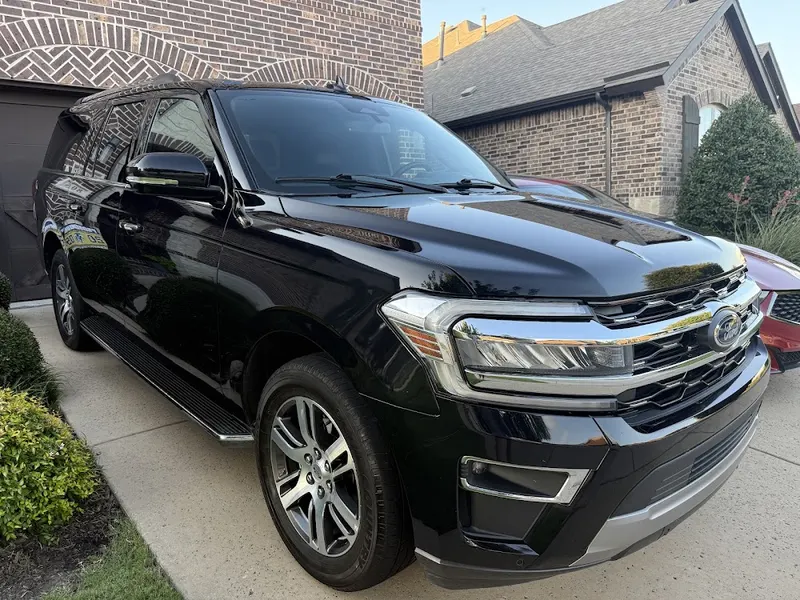
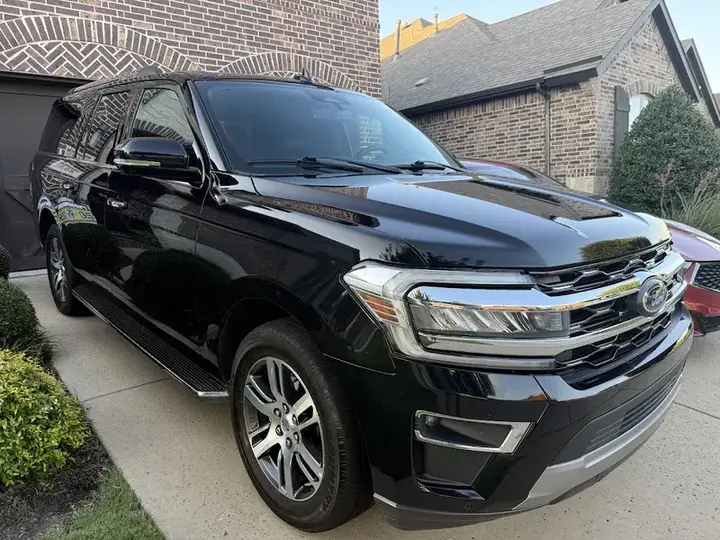
hp-details-ceramic-coating-499: speed up image loading
Real 112px review thumbnails instead of full photos, photos resized to their
display size and recompressed, 640px mobile hero via srcset, WebP logo, and
7-day asset caching via _headers. Full-scroll image weight 2.4 MB -> 835 KB.

Changed region(s): [[0.0611, 0.7407, 0.0917, 0.7704]]

diff --git a/hp-details-ceramic-coating-499/index.html b/hp-details-ceramic-coating-499/index.html
@@ -30,14 +30,14 @@
   <a class="skip-link" href="#main">Skip to content</a>
   <div class="sticky-header">
     <header class="site-header container">
-      <a class="brand" href="#main" aria-label="HP Mobile Detailing home"><img src="assets/hp-logo.png" alt="HP Mobile Detailing logo" width="256" height="256"><span class="brand-name"><strong>HP Mobile Detailing</strong><small>Ceramic coating · DFW</small></span></a>
+      <a class="brand" href="#main" aria-label="HP Mobile Detailing home"><img src="assets/hp-logo.webp" alt="HP Mobile Detailing logo" width="144" height="144"><span class="brand-name"><strong>HP Mobile Detailing</strong><small>Ceramic coating · DFW</small></span></a>
       <nav class="desktop-nav" aria-label="Main navigation"><a href="#benefits">The protection</a><a href="#portfolio">Our work</a><a href="#reviews">Google reviews</a><a href="#faq">FAQ</a></nav>
       <a class="header-call" href="tel:+16824654893"><svg viewBox="0 0 24 24" aria-hidden="true"><path d="M5 3h4l2 5-3 2a15 15 0 0 0 6 6l2-3 5 2v4a2 2 0 0 1-2 2C9 21 3 15 3 5a2 2 0 0 1 2-2Z"/></svg><span>(682) 465-4893</span></a>
     </header>
   </div>
   <main id="main">
     <section class="daylight-hero" aria-labelledby="hero-title">
-      <img class="hero-backdrop" src="assets/hero-maybach.webp" alt="" width="1080" height="1079" fetchpriority="high">
+      <img class="hero-backdrop" src="assets/hero-maybach.webp" srcset="assets/hero-maybach-640.webp 640w, assets/hero-maybach.webp 1080w" sizes="100vw" alt="" width="1080" height="1079" fetchpriority="high" decoding="async">
       <div class="container daylight-grid">
         <div class="hero-copy">
           <span class="eyebrow glass-pill"><span class="status-dot" aria-hidden="true"></span>DALLAS–FORT WORTH · MOBILE CERAMIC COATING</span>
@@ -99,7 +99,7 @@
     <div class="story-band">
       <div class="container">
         <section class="studio-statement" aria-labelledby="story-title">
-          <div class="story-photo"><img src="assets/story-hp-van.webp" alt="HP Mobile Detailing van parked beside a freshly detailed gray Ford Mustang" width="1080" height="1080" loading="lazy"><span>WE COME TO YOU.</span></div>
+          <div class="story-photo"><img src="assets/story-hp-van.webp" alt="HP Mobile Detailing van parked beside a freshly detailed gray Ford Mustang" width="800" height="800" loading="lazy"><span>WE COME TO YOU.</span></div>
           <div class="story-copy"><span class="eyebrow">PREP. PROTECT. ENJOY.</span><h2 id="story-title">Showroom shine,<br>right in your driveway.</h2><p>HP Mobile Detailing brings the full coating process to your home or office. First comes a careful wash and decontamination, then the prep your paint needs, then a precise ceramic application panel by panel.</p><p>No drop-off and no waiting room. We’ll walk you through what’s included in the $499 package before you book.</p><a class="button" href="tel:+16824654893" aria-label="Call HP Mobile Detailing at (682) 465-4893">Call (682) 465-4893 <span aria-hidden="true">↗</span></a></div>
         </section>
       </div>
@@ -121,10 +121,10 @@
       <section id="portfolio" class="section container" aria-labelledby="portfolio-title">
         <div class="section-heading"><span class="eyebrow">THE FINISH SPEAKS FOR ITSELF</span><h2 id="portfolio-title">Driveway detailed.<br>HP shine.</h2><p>Recent vehicles finished by HP Mobile Detailing around Dallas–Fort Worth.</p></div>
         <div class="portfolio-grid">
-          <figure><img src="assets/gallery-challenger.webp" alt="Black Dodge Challenger with a deep gloss finish at sunset" width="900" height="900" loading="lazy"><figcaption><span>Dodge Challenger · deep black</span><span>01</span></figcaption></figure>
-          <figure><img src="assets/gallery-maserati.webp" alt="Blue Maserati Ghibli after an HP Mobile Detailing service" width="900" height="900" loading="lazy"><figcaption><span>Maserati Ghibli · ready for the streets</span><span>02</span></figcaption></figure>
-          <figure><img src="assets/gallery-silverado.webp" alt="Black Chevrolet Silverado detailed in a driveway" width="900" height="900" loading="lazy"><figcaption><span>Chevy Silverado · truck gloss</span><span>03</span></figcaption></figure>
-          <figure><img src="assets/gallery-camaro.webp" alt="Black Chevrolet Camaro SS with red accents after detailing" width="900" height="685" loading="lazy"><figcaption><span>Camaro SS · mirror finish</span><span>04</span></figcaption></figure>
+          <figure><img src="assets/gallery-challenger.webp" alt="Black Dodge Challenger with a deep gloss finish at sunset" width="640" height="640" loading="lazy"><figcaption><span>Dodge Challenger · deep black</span><span>01</span></figcaption></figure>
+          <figure><img src="assets/gallery-maserati.webp" alt="Blue Maserati Ghibli after an HP Mobile Detailing service" width="640" height="640" loading="lazy"><figcaption><span>Maserati Ghibli · ready for the streets</span><span>02</span></figcaption></figure>
+          <figure><img src="assets/gallery-silverado.webp" alt="Black Chevrolet Silverado detailed in a driveway" width="640" height="640" loading="lazy"><figcaption><span>Chevy Silverado · truck gloss</span><span>03</span></figcaption></figure>
+          <figure><img src="assets/gallery-camaro.webp" alt="Black Chevrolet Camaro SS with red accents after detailing" width="640" height="487" loading="lazy"><figcaption><span>Camaro SS · mirror finish</span><span>04</span></figcaption></figure>
         </div>
         <a class="text-link" href="https://www.instagram.com/hpdetails_/" target="_blank" rel="noopener noreferrer">More from HP on Instagram <span aria-hidden="true">↗</span></a>
       </section>
@@ -136,49 +136,49 @@
           <div class="review-carousel">
             <div id="review-track" class="review-track" role="region" aria-label="HP Mobile Detailing customer reviews" aria-describedby="reviews-help" tabindex="0">
           <article class="review-card" aria-label="Review 1 of 7">
-            <div class="review-gallery"><img class="review-photo" src="assets/review-rafael-garcia-1.webp" alt="Customer photo from Rafael Garcia’s Google review · VW GTI · Ceramic coating" width="600" height="800" loading="lazy"><div class="review-thumbs"><button type="button" class="review-thumb is-active" data-review-photo="assets/review-rafael-garcia-1.webp" aria-label="Show photo 1 of 3 from Rafael Garcia’s review" aria-pressed="true"><img src="assets/review-rafael-garcia-1.webp" alt="" width="56" height="56" loading="lazy"></button><button type="button" class="review-thumb" data-review-photo="assets/review-rafael-garcia-2.webp" aria-label="Show photo 2 of 3 from Rafael Garcia’s review" aria-pressed="false"><img src="assets/review-rafael-garcia-2.webp" alt="" width="56" height="56" loading="lazy"></button><button type="button" class="review-thumb" data-review-photo="assets/review-rafael-garcia-3.webp" aria-label="Show photo 3 of 3 from Rafael Garcia’s review" aria-pressed="false"><img src="assets/review-rafael-garcia-3.webp" alt="" width="56" height="56" loading="lazy"></button></div></div>
+            <div class="review-gallery"><img class="review-photo" src="assets/review-rafael-garcia-1.webp" alt="Customer photo from Rafael Garcia’s Google review · VW GTI · Ceramic coating" width="540" height="720" loading="lazy" decoding="async"><div class="review-thumbs"><button type="button" class="review-thumb is-active" data-review-photo="assets/review-rafael-garcia-1.webp" aria-label="Show photo 1 of 3 from Rafael Garcia’s review" aria-pressed="true"><img src="assets/review-rafael-garcia-1-thumb.webp" alt="" width="56" height="56" loading="lazy" decoding="async"></button><button type="button" class="review-thumb" data-review-photo="assets/review-rafael-garcia-2.webp" aria-label="Show photo 2 of 3 from Rafael Garcia’s review" aria-pressed="false"><img src="assets/review-rafael-garcia-2-thumb.webp" alt="" width="56" height="56" loading="lazy" decoding="async"></button><button type="button" class="review-thumb" data-review-photo="assets/review-rafael-garcia-3.webp" aria-label="Show photo 3 of 3 from Rafael Garcia’s review" aria-pressed="false"><img src="assets/review-rafael-garcia-3-thumb.webp" alt="" width="56" height="56" loading="lazy" decoding="async"></button></div></div>
             <div class="review-top"><span class="stars" role="img" aria-label="5 out of 5 stars">★★★★★</span><span class="google-letter" aria-hidden="true">G</span></div>
             <blockquote>“Brought my GTI in for a ceramic coat and they absolutely killed it. Paint came out immaculate and the gloss is ridiculous. Pictures genuinely don’t do it justice. Straightforward, quick turnaround, and excellent work. Couldn’t be happier with how it came out. 10/10.”</blockquote>
             <div class="review-author"><img class="avatar" src="assets/review-rafael-garcia-avatar.webp" alt="" width="36" height="36" loading="lazy"><div><strong>Rafael Garcia</strong><small>Google review · VW GTI · Ceramic coating · a month ago</small></div></div>
             <a class="review-source" href="https://www.google.com/maps/contrib/113602555406967508161/reviews" target="_blank" rel="noopener noreferrer">Read this review on Google ↗</a>
           </article>
           <article class="review-card" aria-label="Review 2 of 7">
-            <div class="review-gallery"><img class="review-photo" src="assets/review-wade-baldwin-1.webp" alt="Customer photo from Wade Baldwin’s Google review · Porsche Panamera · Ceramic coating" width="600" height="800" loading="lazy"><div class="review-thumbs"><button type="button" class="review-thumb is-active" data-review-photo="assets/review-wade-baldwin-1.webp" aria-label="Show photo 1 of 3 from Wade Baldwin’s review" aria-pressed="true"><img src="assets/review-wade-baldwin-1.webp" alt="" width="56" height="56" loading="lazy"></button><button type="button" class="review-thumb" data-review-photo="assets/review-wade-baldwin-2.webp" aria-label="Show photo 2 of 3 from Wade Baldwin’s review" aria-pressed="false"><img src="assets/review-wade-baldwin-2.webp" alt="" width="56" height="56" loading="lazy"></button><button type="button" class="review-thumb" data-review-photo="assets/review-wade-baldwin-3.webp" aria-label="Show photo 3 of 3 from Wade Baldwin’s review" aria-pressed="false"><img src="assets/review-wade-baldwin-3.webp" alt="" width="56" height="56" loading="lazy"></button></div></div>
+            <div class="review-gallery"><img class="review-photo" src="assets/review-wade-baldwin-1.webp" alt="Customer photo from Wade Baldwin’s Google review · Porsche Panamera · Ceramic coating" width="540" height="720" loading="lazy" decoding="async"><div class="review-thumbs"><button type="button" class="review-thumb is-active" data-review-photo="assets/review-wade-baldwin-1.webp" aria-label="Show photo 1 of 3 from Wade Baldwin’s review" aria-pressed="true"><img src="assets/review-wade-baldwin-1-thumb.webp" alt="" width="56" height="56" loading="lazy" decoding="async"></button><button type="button" class="review-thumb" data-review-photo="assets/review-wade-baldwin-2.webp" aria-label="Show photo 2 of 3 from Wade Baldwin’s review" aria-pressed="false"><img src="assets/review-wade-baldwin-2-thumb.webp" alt="" width="56" height="56" loading="lazy" decoding="async"></button><button type="button" class="review-thumb" data-review-photo="assets/review-wade-baldwin-3.webp" aria-label="Show photo 3 of 3 from Wade Baldwin’s review" aria-pressed="false"><img src="assets/review-wade-baldwin-3-thumb.webp" alt="" width="56" height="56" loading="lazy" decoding="async"></button></div></div>
             <div class="review-top"><span class="stars" role="img" aria-label="5 out of 5 stars">★★★★★</span><span class="google-letter" aria-hidden="true">G</span></div>
             <blockquote>“Great, expert and professional service. Took my Porsche Panamera in for ceramic coating. Highly recommend these guys. I will be back and bringing my other vehicles to them.”</blockquote>
             <div class="review-author"><img class="avatar" src="assets/review-wade-baldwin-avatar.webp" alt="" width="36" height="36" loading="lazy"><div><strong>Wade Baldwin</strong><small>Google review · Porsche Panamera · Ceramic coating · 2 months ago</small></div></div>
             <a class="review-source" href="https://www.google.com/maps/contrib/100672060749162976194/reviews" target="_blank" rel="noopener noreferrer">Read this review on Google ↗</a>
           </article>
           <article class="review-card" aria-label="Review 3 of 7">
-            <div class="review-gallery"><img class="review-photo" src="assets/review-gary-smith-1.webp" alt="Customer photo from Gary Smith’s Google review · Truck · Ceramic coating" width="800" height="600" loading="lazy"><div class="review-thumbs"><button type="button" class="review-thumb is-active" data-review-photo="assets/review-gary-smith-1.webp" aria-label="Show photo 1 of 3 from Gary Smith’s review" aria-pressed="true"><img src="assets/review-gary-smith-1.webp" alt="" width="56" height="56" loading="lazy"></button><button type="button" class="review-thumb" data-review-photo="assets/review-gary-smith-2.webp" aria-label="Show photo 2 of 3 from Gary Smith’s review" aria-pressed="false"><img src="assets/review-gary-smith-2.webp" alt="" width="56" height="56" loading="lazy"></button><button type="button" class="review-thumb" data-review-photo="assets/review-gary-smith-3.webp" aria-label="Show photo 3 of 3 from Gary Smith’s review" aria-pressed="false"><img src="assets/review-gary-smith-3.webp" alt="" width="56" height="56" loading="lazy"></button></div></div>
+            <div class="review-gallery"><img class="review-photo" src="assets/review-gary-smith-1.webp" alt="Customer photo from Gary Smith’s Google review · Truck · Ceramic coating" width="720" height="540" loading="lazy" decoding="async"><div class="review-thumbs"><button type="button" class="review-thumb is-active" data-review-photo="assets/review-gary-smith-1.webp" aria-label="Show photo 1 of 3 from Gary Smith’s review" aria-pressed="true"><img src="assets/review-gary-smith-1-thumb.webp" alt="" width="56" height="56" loading="lazy" decoding="async"></button><button type="button" class="review-thumb" data-review-photo="assets/review-gary-smith-2.webp" aria-label="Show photo 2 of 3 from Gary Smith’s review" aria-pressed="false"><img src="assets/review-gary-smith-2-thumb.webp" alt="" width="56" height="56" loading="lazy" decoding="async"></button><button type="button" class="review-thumb" data-review-photo="assets/review-gary-smith-3.webp" aria-label="Show photo 3 of 3 from Gary Smith’s review" aria-pressed="false"><img src="assets/review-gary-smith-3-thumb.webp" alt="" width="56" height="56" loading="lazy" decoding="async"></button></div></div>
             <div class="review-top"><span class="stars" role="img" aria-label="5 out of 5 stars">★★★★★</span><span class="google-letter" aria-hidden="true">G</span></div>
             <blockquote>“I would highly recommend their services. They are very professional and did a beautiful job. They did extensive prep work to prep my truck for the ceramic coating… it looks new again! You won’t be disappointed.”</blockquote>
             <div class="review-author"><img class="avatar" src="assets/review-gary-smith-avatar.webp" alt="" width="36" height="36" loading="lazy"><div><strong>Gary Smith</strong><small>Google review · Truck · Ceramic coating · a year ago</small></div></div>
             <a class="review-source" href="https://www.google.com/maps/contrib/106413023933559850817/reviews" target="_blank" rel="noopener noreferrer">Read this review on Google ↗</a>
           </article>
           <article class="review-card" aria-label="Review 4 of 7">
-            <div class="review-gallery"><img class="review-photo" src="assets/review-christina-sheaks-1.webp" alt="Customer photo from Christina Sheaks’s Google review · 2026 Toyota RAV4 · Ceramic coating" width="450" height="800" loading="lazy"><div class="review-thumbs"><button type="button" class="review-thumb is-active" data-review-photo="assets/review-christina-sheaks-1.webp" aria-label="Show photo 1 of 2 from Christina Sheaks’s review" aria-pressed="true"><img src="assets/review-christina-sheaks-1.webp" alt="" width="56" height="56" loading="lazy"></button><button type="button" class="review-thumb" data-review-photo="assets/review-christina-sheaks-2.webp" aria-label="Show photo 2 of 2 from Christina Sheaks’s review" aria-pressed="false"><img src="assets/review-christina-sheaks-2.webp" alt="" width="56" height="56" loading="lazy"></button></div></div>
+            <div class="review-gallery"><img class="review-photo" src="assets/review-christina-sheaks-1.webp" alt="Customer photo from Christina Sheaks’s Google review · 2026 Toyota RAV4 · Ceramic coating" width="405" height="720" loading="lazy" decoding="async"><div class="review-thumbs"><button type="button" class="review-thumb is-active" data-review-photo="assets/review-christina-sheaks-1.webp" aria-label="Show photo 1 of 2 from Christina Sheaks’s review" aria-pressed="true"><img src="assets/review-christina-sheaks-1-thumb.webp" alt="" width="56" height="56" loading="lazy" decoding="async"></button><button type="button" class="review-thumb" data-review-photo="assets/review-christina-sheaks-2.webp" aria-label="Show photo 2 of 2 from Christina Sheaks’s review" aria-pressed="false"><img src="assets/review-christina-sheaks-2-thumb.webp" alt="" width="56" height="56" loading="lazy" decoding="async"></button></div></div>
             <div class="review-top"><span class="stars" role="img" aria-label="5 out of 5 stars">★★★★★</span><span class="google-letter" aria-hidden="true">G</span></div>
             <blockquote>“I just bought my 2026 Toyota RAV4 and wanted to make sure I keep her paint protected. I got the ceramic coating completed with HP Mobile Details. … Car looked shinier than the day I bought it. They were very responsive and kept me updated on the status. 10/10 recommend.”</blockquote>
             <div class="review-author"><img class="avatar" src="assets/review-christina-sheaks-avatar.webp" alt="" width="36" height="36" loading="lazy"><div><strong>Christina Sheaks</strong><small>Google review · 2026 Toyota RAV4 · Ceramic coating · 6 months ago</small></div></div>
             <a class="review-source" href="https://www.google.com/maps/contrib/117395740007615017007/reviews" target="_blank" rel="noopener noreferrer">Read this review on Google ↗</a>
           </article>
           <article class="review-card" aria-label="Review 5 of 7">
-            <div class="review-gallery"><img class="review-photo" src="assets/review-kevin-ramirez-1.webp" alt="Customer photo from Kevin Ramirez’s Google review · Ceramic coating + add-ons" width="800" height="600" loading="lazy"><div class="review-thumbs"><button type="button" class="review-thumb is-active" data-review-photo="assets/review-kevin-ramirez-1.webp" aria-label="Show photo 1 of 3 from Kevin Ramirez’s review" aria-pressed="true"><img src="assets/review-kevin-ramirez-1.webp" alt="" width="56" height="56" loading="lazy"></button><button type="button" class="review-thumb" data-review-photo="assets/review-kevin-ramirez-2.webp" aria-label="Show photo 2 of 3 from Kevin Ramirez’s review" aria-pressed="false"><img src="assets/review-kevin-ramirez-2.webp" alt="" width="56" height="56" loading="lazy"></button><button type="button" class="review-thumb" data-review-photo="assets/review-kevin-ramirez-3.webp" aria-label="Show photo 3 of 3 from Kevin Ramirez’s review" aria-pressed="false"><img src="assets/review-kevin-ramirez-3.webp" alt="" width="56" height="56" loading="lazy"></button></div></div>
+            <div class="review-gallery"><img class="review-photo" src="assets/review-kevin-ramirez-1.webp" alt="Customer photo from Kevin Ramirez’s Google review · Ceramic coating + add-ons" width="720" height="540" loading="lazy" decoding="async"><div class="review-thumbs"><button type="button" class="review-thumb is-active" data-review-photo="assets/review-kevin-ramirez-1.webp" aria-label="Show photo 1 of 3 from Kevin Ramirez’s review" aria-pressed="true"><img src="assets/review-kevin-ramirez-1-thumb.webp" alt="" width="56" height="56" loading="lazy" decoding="async"></button><button type="button" class="review-thumb" data-review-photo="assets/review-kevin-ramirez-2.webp" aria-label="Show photo 2 of 3 from Kevin Ramirez’s review" aria-pressed="false"><img src="assets/review-kevin-ramirez-2-thumb.webp" alt="" width="56" height="56" loading="lazy" decoding="async"></button><button type="button" class="review-thumb" data-review-photo="assets/review-kevin-ramirez-3.webp" aria-label="Show photo 3 of 3 from Kevin Ramirez’s review" aria-pressed="false"><img src="assets/review-kevin-ramirez-3-thumb.webp" alt="" width="56" height="56" loading="lazy" decoding="async"></button></div></div>
             <div class="review-top"><span class="stars" role="img" aria-label="5 out of 5 stars">★★★★★</span><span class="google-letter" aria-hidden="true">G</span></div>
             <blockquote>“Great service. Beautiful shine. Gives your car a new look and new vibe. Great price for the work being done. 10/10 recommend. Shoutout Hector for blessing with the add on services as well.”</blockquote>
             <div class="review-author"><img class="avatar" src="assets/review-kevin-ramirez-avatar.webp" alt="" width="36" height="36" loading="lazy"><div><strong>Kevin Ramirez</strong><small>Google review · Ceramic coating + add-ons · 8 months ago</small></div></div>
             <a class="review-source" href="https://www.google.com/maps/contrib/104442384925064246462/reviews" target="_blank" rel="noopener noreferrer">Read this review on Google ↗</a>
           </article>
           <article class="review-card" aria-label="Review 6 of 7">
-            <div class="review-gallery"><img class="review-photo" src="assets/review-arun-sidharrth-1.webp" alt="Customer photo from Arun Sidharrth’s Google review · Local Guide · Ceramic coating" width="800" height="600" loading="lazy"><div class="review-thumbs"><button type="button" class="review-thumb is-active" data-review-photo="assets/review-arun-sidharrth-1.webp" aria-label="Show photo 1 of 3 from Arun Sidharrth’s review" aria-pressed="true"><img src="assets/review-arun-sidharrth-1.webp" alt="" width="56" height="56" loading="lazy"></button><button type="button" class="review-thumb" data-review-photo="assets/review-arun-sidharrth-2.webp" aria-label="Show photo 2 of 3 from Arun Sidharrth’s review" aria-pressed="false"><img src="assets/review-arun-sidharrth-2.webp" alt="" width="56" height="56" loading="lazy"></button><button type="button" class="review-thumb" data-review-photo="assets/review-arun-sidharrth-3.webp" aria-label="Show photo 3 of 3 from Arun Sidharrth’s review" aria-pressed="false"><img src="assets/review-arun-sidharrth-3.webp" alt="" width="56" height="56" loading="lazy"></button></div></div>
+            <div class="review-gallery"><img class="review-photo" src="assets/review-arun-sidharrth-1.webp" alt="Customer photo from Arun Sidharrth’s Google review · Local Guide · Ceramic coating" width="720" height="540" loading="lazy" decoding="async"><div class="review-thumbs"><button type="button" class="review-thumb is-active" data-review-photo="assets/review-arun-sidharrth-1.webp" aria-label="Show photo 1 of 3 from Arun Sidharrth’s review" aria-pressed="true"><img src="assets/review-arun-sidharrth-1-thumb.webp" alt="" width="56" height="56" loading="lazy" decoding="async"></button><button type="button" class="review-thumb" data-review-photo="assets/review-arun-sidharrth-2.webp" aria-label="Show photo 2 of 3 from Arun Sidharrth’s review" aria-pressed="false"><img src="assets/review-arun-sidharrth-2-thumb.webp" alt="" width="56" height="56" loading="lazy" decoding="async"></button><button type="button" class="review-thumb" data-review-photo="assets/review-arun-sidharrth-3.webp" aria-label="Show photo 3 of 3 from Arun Sidharrth’s review" aria-pressed="false"><img src="assets/review-arun-sidharrth-3-thumb.webp" alt="" width="56" height="56" loading="lazy" decoding="async"></button></div></div>
             <div class="review-top"><span class="stars" role="img" aria-label="5 out of 5 stars">★★★★★</span><span class="google-letter" aria-hidden="true">G</span></div>
             <blockquote>“HP Mobile Details LLC is hands down the best in town for ceramic coating! … They provide the ultimate convenience by working on Sundays and coming to you, wherever you are. … The final results exceeded my expectations—my car looks absolutely stunning!”</blockquote>
             <div class="review-author"><img class="avatar" src="assets/review-arun-sidharrth-avatar.webp" alt="" width="36" height="36" loading="lazy"><div><strong>Arun Sidharrth</strong><small>Google review · Local Guide · Ceramic coating · a year ago</small></div></div>
             <a class="review-source" href="https://www.google.com/maps/contrib/110555298633861925211/reviews" target="_blank" rel="noopener noreferrer">Read this review on Google ↗</a>
           </article>
           <article class="review-card" aria-label="Review 7 of 7">
-            <div class="review-gallery"><img class="review-photo" src="assets/review-alex-hubble-1.webp" alt="Customer photo from Alex Hubble’s Google review · Truck · Swirl removal" width="800" height="600" loading="lazy"><div class="review-thumbs"><button type="button" class="review-thumb is-active" data-review-photo="assets/review-alex-hubble-1.webp" aria-label="Show photo 1 of 3 from Alex Hubble’s review" aria-pressed="true"><img src="assets/review-alex-hubble-1.webp" alt="" width="56" height="56" loading="lazy"></button><button type="button" class="review-thumb" data-review-photo="assets/review-alex-hubble-2.webp" aria-label="Show photo 2 of 3 from Alex Hubble’s review" aria-pressed="false"><img src="assets/review-alex-hubble-2.webp" alt="" width="56" height="56" loading="lazy"></button><button type="button" class="review-thumb" data-review-photo="assets/review-alex-hubble-3.webp" aria-label="Show photo 3 of 3 from Alex Hubble’s review" aria-pressed="false"><img src="assets/review-alex-hubble-3.webp" alt="" width="56" height="56" loading="lazy"></button></div></div>
+            <div class="review-gallery"><img class="review-photo" src="assets/review-alex-hubble-1.webp" alt="Customer photo from Alex Hubble’s Google review · Truck · Swirl removal" width="720" height="540" loading="lazy" decoding="async"><div class="review-thumbs"><button type="button" class="review-thumb is-active" data-review-photo="assets/review-alex-hubble-1.webp" aria-label="Show photo 1 of 3 from Alex Hubble’s review" aria-pressed="true"><img src="assets/review-alex-hubble-1-thumb.webp" alt="" width="56" height="56" loading="lazy" decoding="async"></button><button type="button" class="review-thumb" data-review-photo="assets/review-alex-hubble-2.webp" aria-label="Show photo 2 of 3 from Alex Hubble’s review" aria-pressed="false"><img src="assets/review-alex-hubble-2-thumb.webp" alt="" width="56" height="56" loading="lazy" decoding="async"></button><button type="button" class="review-thumb" data-review-photo="assets/review-alex-hubble-3.webp" aria-label="Show photo 3 of 3 from Alex Hubble’s review" aria-pressed="false"><img src="assets/review-alex-hubble-3-thumb.webp" alt="" width="56" height="56" loading="lazy" decoding="async"></button></div></div>
             <div class="review-top"><span class="stars" role="img" aria-label="5 out of 5 stars">★★★★★</span><span class="google-letter" aria-hidden="true">G</span></div>
             <blockquote>“Hector and his team are the truth! So glad I booked with them. … My truck had significant water marks, swirls and now it’s mirror finish all around!! See for yourself!”</blockquote>
             <div class="review-author"><img class="avatar" src="assets/review-alex-hubble-avatar.webp" alt="" width="36" height="36" loading="lazy"><div><strong>Alex Hubble</strong><small>Google review · Truck · Swirl removal · a year ago</small></div></div>
@@ -199,7 +199,7 @@
       </div>
     </section>
     <div class="dark-section quote-band">
-      <img class="quote-backdrop" src="assets/gallery-mustang.webp" alt="" width="900" height="899" loading="lazy">
+      <img class="quote-backdrop" src="assets/gallery-mustang.webp" alt="" width="520" height="519" loading="lazy">
       <section id="quote" class="section container" aria-labelledby="quote-title">
         <div class="quote-layout">
           <div class="quote-copy"><span class="eyebrow">DRIVE A NEW CAR EVERY DAY</span><h2 id="quote-title">Let’s make your<br>car shine.</h2><p>Give your paint the HP treatment. Claim our 10-year ceramic coating for only $499, applied at your place.</p><div class="discount-offer"><span>10-YEAR<br>COATING</span><strong>$499</strong></div><p class="fine-print">Contact HP Mobile Detailing to confirm your vehicle’s eligibility, included preparation, and coating care and warranty terms.</p><a class="text-link" href="tel:+16824654893">Let’s talk details: (682) 465-4893 ↗</a></div>
@@ -249,7 +249,7 @@
   </main>
   <footer class="site-footer">
     <div class="container footer-grid">
-      <div><a class="brand" href="#main" aria-label="HP Mobile Detailing home"><img src="assets/hp-logo.png" alt="HP Mobile Detailing logo" width="256" height="256" loading="lazy"><span class="brand-name"><strong>HP Mobile Detailing</strong><small>Ceramic coating · DFW</small></span></a><p>Car detailing at your doorstep.<br>Feel good in your car again.</p></div>
+      <div><a class="brand" href="#main" aria-label="HP Mobile Detailing home"><img src="assets/hp-logo.webp" alt="HP Mobile Detailing logo" width="144" height="144" loading="lazy"><span class="brand-name"><strong>HP Mobile Detailing</strong><small>Ceramic coating · DFW</small></span></a><p>Car detailing at your doorstep.<br>Feel good in your car again.</p></div>
       <div><span class="eyebrow">WE COME TO YOU</span><address>Mobile service across<br>Dallas–Fort Worth, Texas</address><span class="footer-hours">Mon–Fri 8–6 · Sat 9–5 · Sun 10–3</span></div>
       <div><span class="eyebrow">LET’S TALK DETAILS</span><a class="footer-phone" href="tel:+16824654893">(682) 465-4893</a><a class="text-link" href="https://www.instagram.com/hpdetails_/" target="_blank" rel="noopener noreferrer">Instagram ↗</a><a class="text-link" href="https://www.facebook.com/profile.php?id=100090515269901" target="_blank" rel="noopener noreferrer">Facebook ↗</a><a class="text-link" href="https://www.hpdetails.com/" target="_blank" rel="noopener noreferrer">hpdetails.com ↗</a></div>
     </div>

diff --git a/hp-details-ceramic-coating-499/thank-you.html b/hp-details-ceramic-coating-499/thank-you.html
@@ -23,7 +23,7 @@
 </head>
 <body>
   <header class="site-header container">
-    <a class="brand" href="index.html" aria-label="Back to the HP Mobile Detailing offer"><img src="assets/hp-logo.png" alt="HP Mobile Detailing logo" width="256" height="256"><span class="brand-name"><strong>HP Mobile Detailing</strong><small>Ceramic coating · DFW</small></span></a>
+    <a class="brand" href="index.html" aria-label="Back to the HP Mobile Detailing offer"><img src="assets/hp-logo.webp" alt="HP Mobile Detailing logo" width="144" height="144"><span class="brand-name"><strong>HP Mobile Detailing</strong><small>Ceramic coating · DFW</small></span></a>
     <a class="header-call" href="tel:+16824654893"><svg viewBox="0 0 24 24" aria-hidden="true"><path d="M5 3h4l2 5-3 2a15 15 0 0 0 6 6l2-3 5 2v4a2 2 0 0 1-2 2C9 21 3 15 3 5a2 2 0 0 1 2-2Z"/></svg><span>(682) 465-4893</span></a>
   </header>
   <main class="thanks container">

diff --git a/hp-details-ceramic-coating-499/hosting.md b/hp-details-ceramic-coating-499/hosting.md
@@ -13,6 +13,9 @@ Requested hostname: https://hpdetails.getkoup.com/
 - Powered by Netlify badge disabled through the site API (`built_with_badge_enabled: false`), verified 2026-11-06.
 - Pretty URLs disabled so `/thank-you.html` is served directly.
 - Manual deployment of merged, synced `main`, through the GitHub PR workflow.
+- Initial production deploy `6aece2bb036f71ad7a3a42c6` (2026-11-06) from merge `eec862b` of PR #51.
+- Custom-domain CNAME added by the user and verified 2026-11-06: authoritative DNS and 1.1.1.1 resolve to Netlify; HTTPS returns 200 with a valid certificate.
+- `_headers` caches `/assets/*` for 7 days (CSS/JS 1 hour). Asset names are not hashed, so rename an image when replacing it.
 
 ## External DNS (Hostinger, getkoup.com zone)
 
